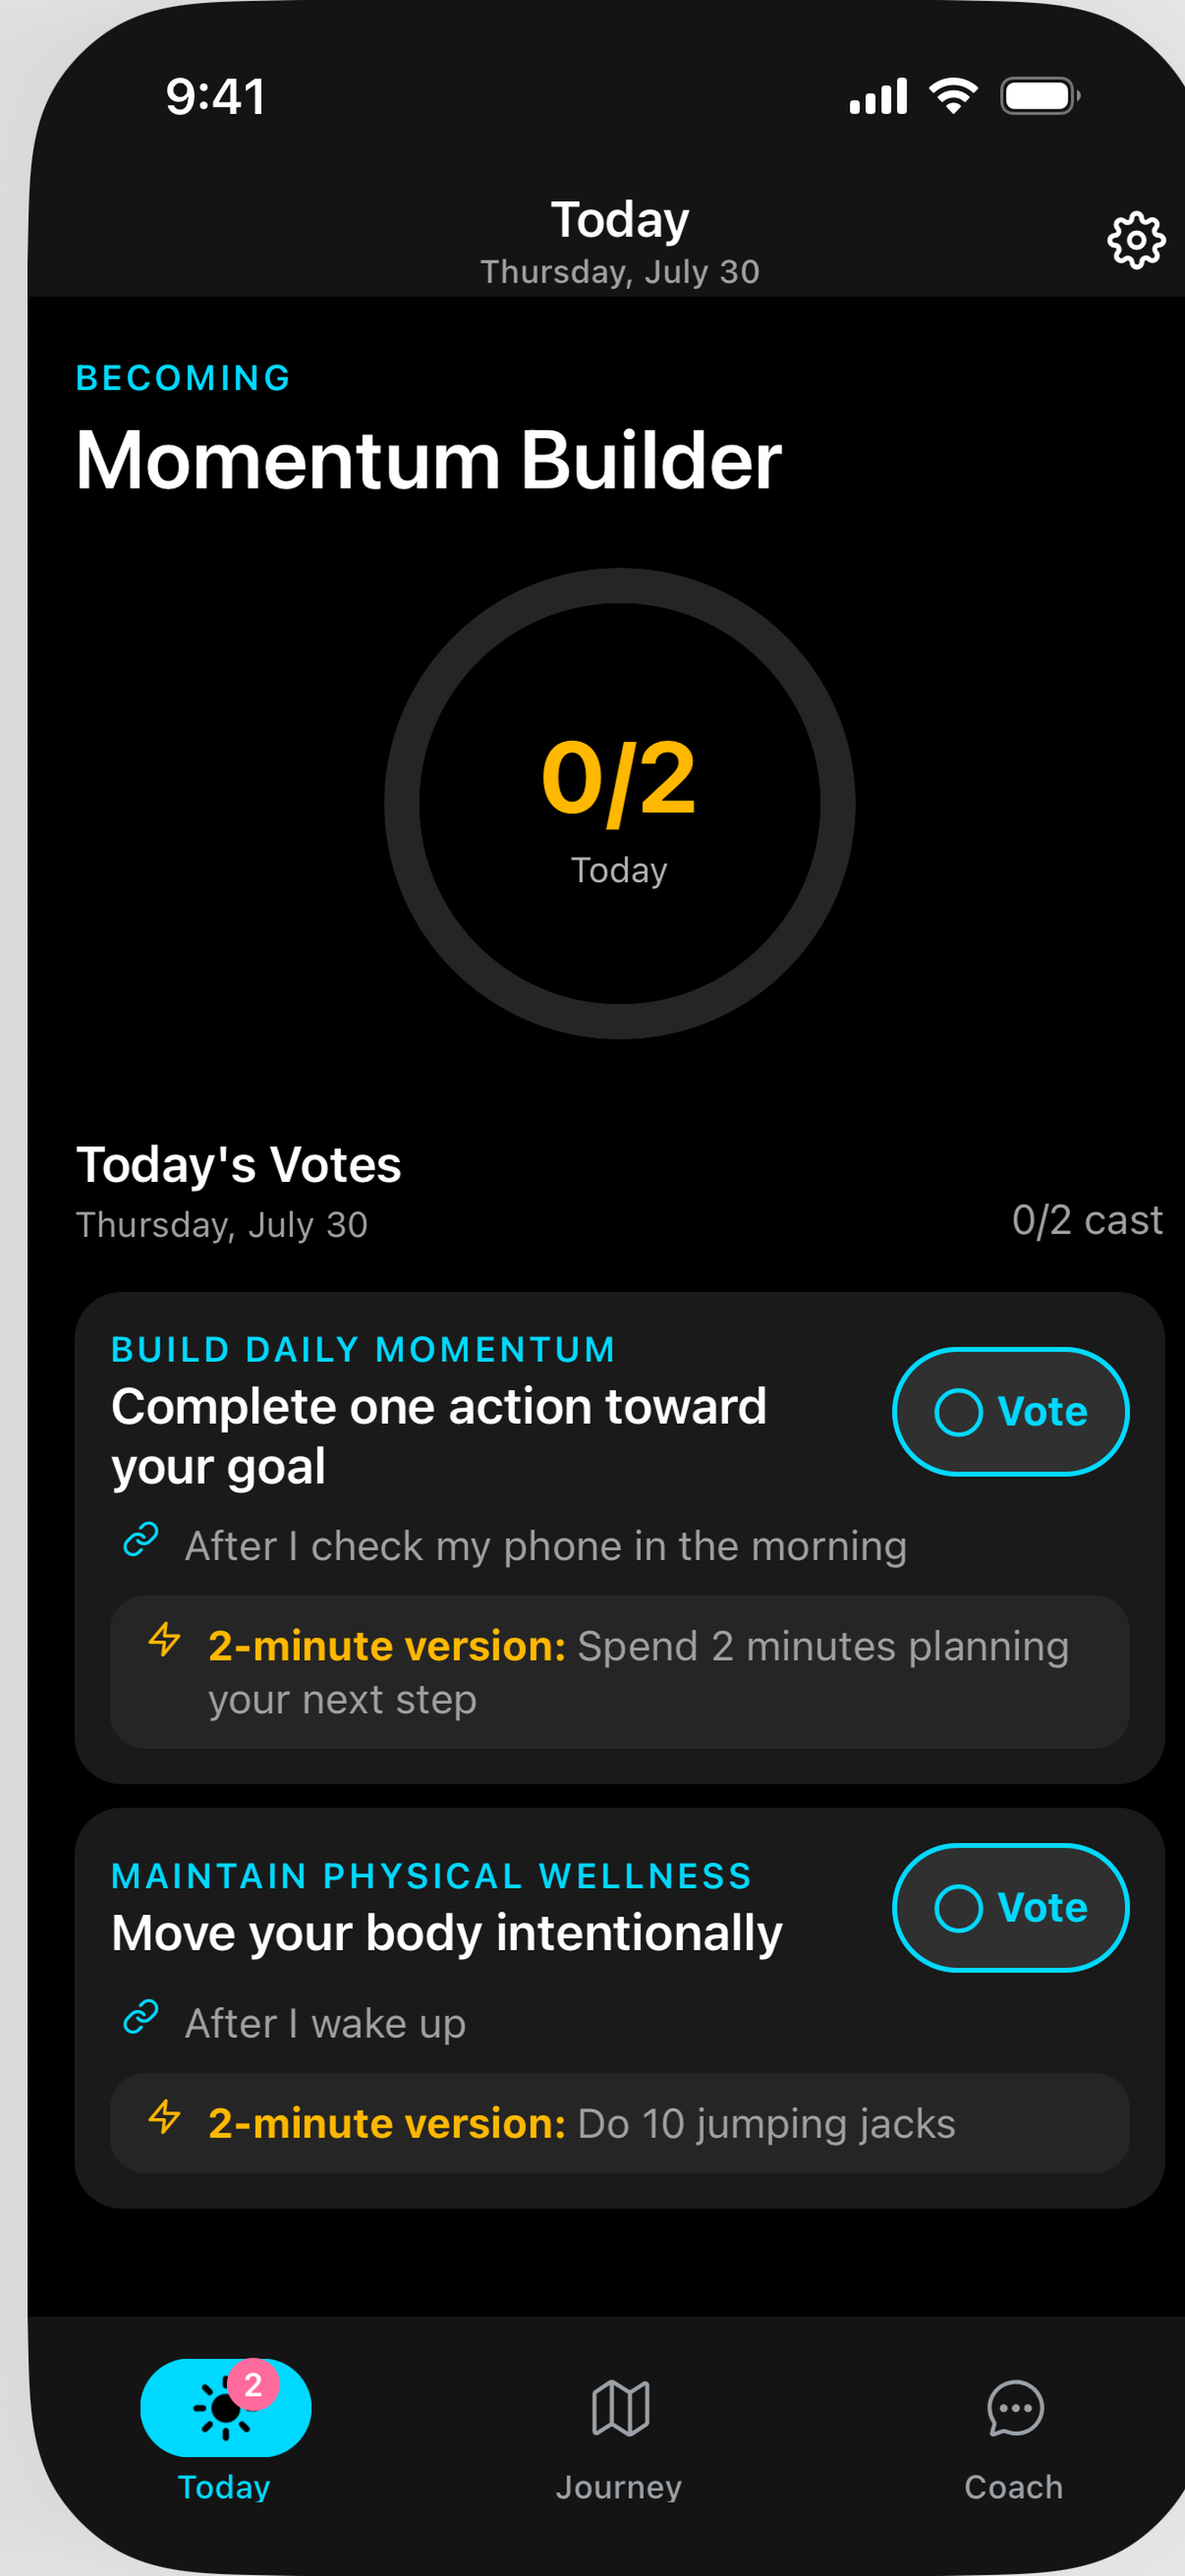
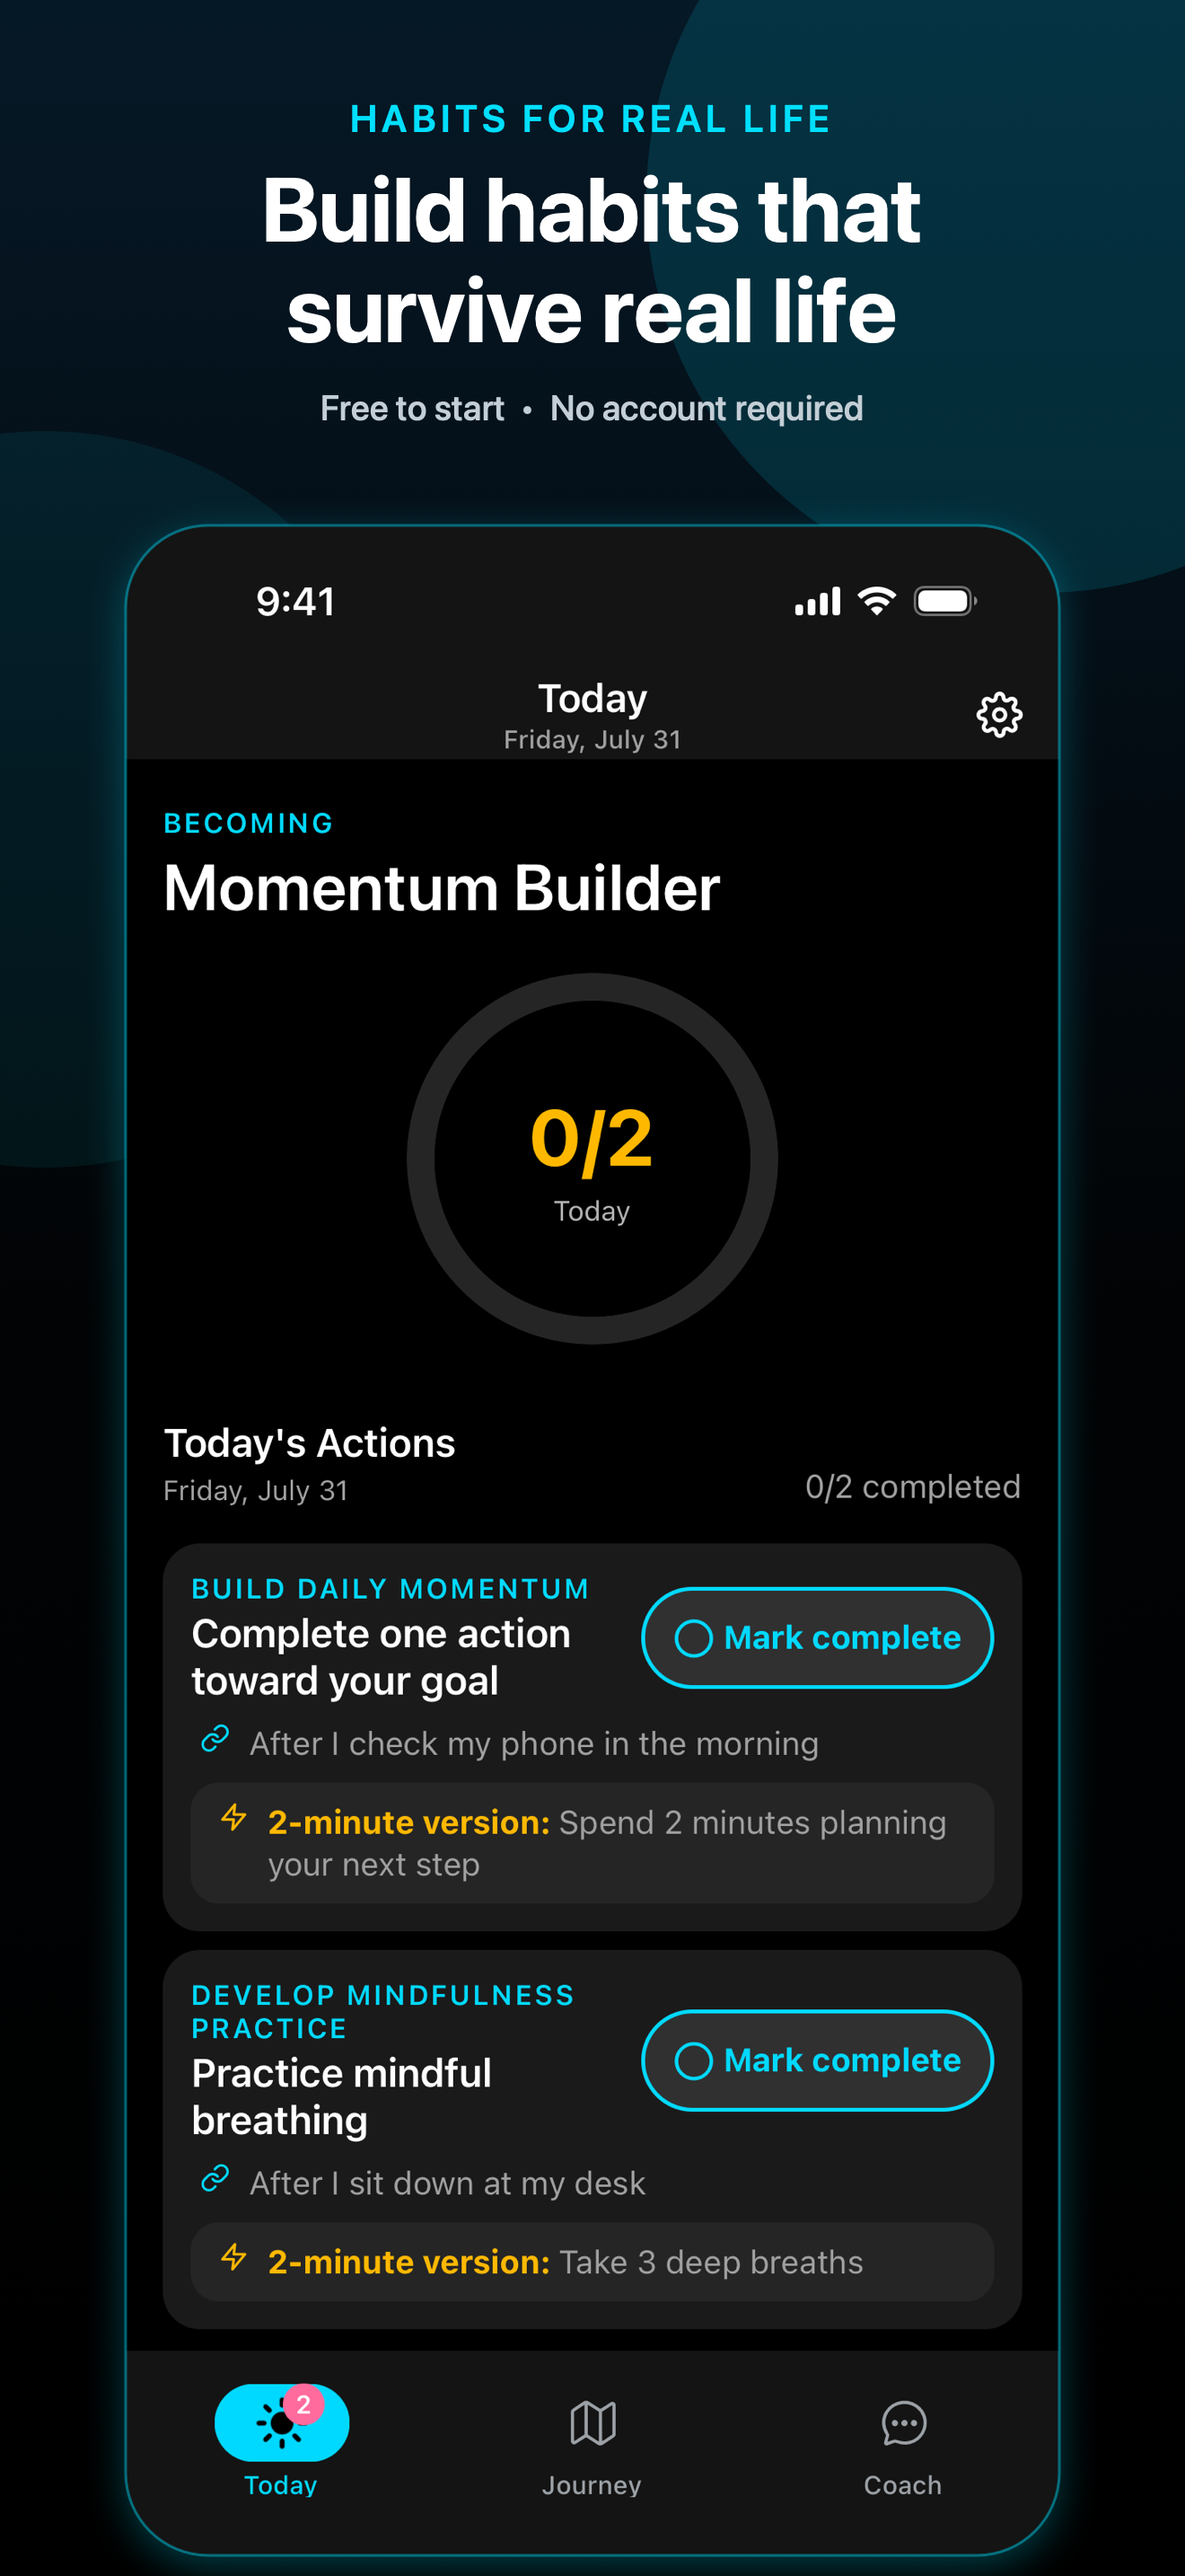
Refresh App Store conversion screenshots

diff --git a/scripts/generate-app-store-screenshots.swift b/scripts/generate-app-store-screenshots.swift
@@ -1,0 +1,226 @@
+import AppKit
+import Foundation
+
+private let canvasWidth = 1320
+private let canvasHeight = 2868
+
+private struct Shot {
+  let source: String
+  let output: String
+  let eyebrow: String
+  let headline: String
+  let detail: String
+  let accent: NSColor
+}
+
+private let shots = [
+  Shot(
+    source: "appstore-screenshots/raw-1.3.3/03-today-fresh.png",
+    output: "appstore-screenshots/01-today.png",
+    eyebrow: "HABITS FOR REAL LIFE",
+    headline: "Build habits that\nsurvive real life",
+    detail: "Free to start  •  No account required",
+    accent: NSColor(calibratedRed: 0.0, green: 0.85, blue: 1.0, alpha: 1.0)
+  ),
+  Shot(
+    source: "appstore-screenshots/raw-1.3.3/03-today-fresh.png",
+    output: "appstore-screenshots/02-two-minute.png",
+    eyebrow: "A PLAN FOR HARD DAYS",
+    headline: "Keep going with a\n2-minute version",
+    detail: "A smaller action still counts",
+    accent: NSColor(calibratedRed: 1.0, green: 0.72, blue: 0.0, alpha: 1.0)
+  ),
+  Shot(
+    source: "appstore-screenshots/raw-1.3.3/05-journey-top.png",
+    output: "appstore-screenshots/03-journey.png",
+    eyebrow: "FORGIVING PROGRESS",
+    headline: "One missed day never\nerases your progress",
+    detail: "See consistency without streak pressure",
+    accent: NSColor(calibratedRed: 0.0, green: 0.94, blue: 0.58, alpha: 1.0)
+  ),
+  Shot(
+    source: "appstore-screenshots/raw-1.3.3/04-today-actions-done.png",
+    output: "appstore-screenshots/04-evidence.png",
+    eyebrow: "SMALL ACTIONS ADD UP",
+    headline: "See the evidence that\nyou’re changing",
+    detail: "Progress you can feel, not just count",
+    accent: NSColor(calibratedRed: 0.0, green: 0.94, blue: 0.58, alpha: 1.0)
+  ),
+  Shot(
+    source: "appstore-screenshots/raw-1.3.3/08-coach-lobby.png",
+    output: "appstore-screenshots/05-coach.png",
+    eyebrow: "COACHING ON YOUR TERMS",
+    headline: "Ask an AI coach\nwhat to adjust",
+    detail: "Preview every plan change before you confirm",
+    accent: NSColor(calibratedRed: 0.0, green: 0.85, blue: 1.0, alpha: 1.0)
+  ),
+  Shot(
+    source: "appstore-screenshots/raw-1.3.3/02-ai-consent.png",
+    output: "appstore-screenshots/06-private.png",
+    eyebrow: "PRIVATE BY DESIGN",
+    headline: "Your progress stays\non your device",
+    detail: "Clear AI consent  •  No required account",
+    accent: NSColor(calibratedRed: 0.63, green: 0.40, blue: 1.0, alpha: 1.0)
+  ),
+]
+
+private func color(_ hex: UInt32, alpha: CGFloat = 1.0) -> NSColor {
+  NSColor(
+    calibratedRed: CGFloat((hex >> 16) & 0xff) / 255,
+    green: CGFloat((hex >> 8) & 0xff) / 255,
+    blue: CGFloat(hex & 0xff) / 255,
+    alpha: alpha
+  )
+}
+
+private func drawCenteredText(
+  _ text: String,
+  top: CGFloat,
+  font: NSFont,
+  color: NSColor,
+  lineHeight: CGFloat? = nil,
+  tracking: CGFloat = 0
+) {
+  let paragraph = NSMutableParagraphStyle()
+  paragraph.alignment = .center
+  if let lineHeight {
+    paragraph.minimumLineHeight = lineHeight
+    paragraph.maximumLineHeight = lineHeight
+  }
+
+  let attributes: [NSAttributedString.Key: Any] = [
+    .font: font,
+    .foregroundColor: color,
+    .paragraphStyle: paragraph,
+    .kern: tracking,
+  ]
+  let bounds = CGRect(
+    x: 70,
+    y: CGFloat(canvasHeight) - top - 360,
+    width: CGFloat(canvasWidth - 140),
+    height: 360
+  )
+  text.draw(in: bounds, withAttributes: attributes)
+}
+
+private func render(_ shot: Shot) throws {
+  guard let sourceImage = NSImage(contentsOfFile: shot.source) else {
+    throw NSError(domain: "AppStoreScreenshots", code: 1, userInfo: [
+      NSLocalizedDescriptionKey: "Could not load \(shot.source)"
+    ])
+  }
+
+  guard let bitmap = NSBitmapImageRep(
+    bitmapDataPlanes: nil,
+    pixelsWide: canvasWidth,
+    pixelsHigh: canvasHeight,
+    bitsPerSample: 8,
+    samplesPerPixel: 4,
+    hasAlpha: true,
+    isPlanar: false,
+    colorSpaceName: .deviceRGB,
+    bytesPerRow: 0,
+    bitsPerPixel: 0
+  ) else {
+    throw NSError(domain: "AppStoreScreenshots", code: 2)
+  }
+
+  NSGraphicsContext.saveGraphicsState()
+  guard let graphicsContext = NSGraphicsContext(bitmapImageRep: bitmap) else {
+    throw NSError(domain: "AppStoreScreenshots", code: 3)
+  }
+  NSGraphicsContext.current = graphicsContext
+
+  let context = graphicsContext.cgContext
+  let canvas = CGRect(x: 0, y: 0, width: canvasWidth, height: canvasHeight)
+  let background = NSGradient(colors: [color(0x08131d), color(0x020406), .black])!
+  background.draw(in: canvas, angle: -90)
+
+  context.saveGState()
+  context.setFillColor(shot.accent.withAlphaComponent(0.13).cgColor)
+  context.fillEllipse(in: CGRect(x: 720, y: 2208, width: 880, height: 880))
+  context.setFillColor(shot.accent.withAlphaComponent(0.07).cgColor)
+  context.fillEllipse(in: CGRect(x: -360, y: 1568, width: 820, height: 820))
+  context.restoreGState()
+
+  drawCenteredText(
+    shot.eyebrow,
+    top: 106,
+    font: NSFont.systemFont(ofSize: 42, weight: .semibold),
+    color: shot.accent,
+    tracking: 5
+  )
+  drawCenteredText(
+    shot.headline,
+    top: 178,
+    font: NSFont.systemFont(ofSize: 100, weight: .bold),
+    color: .white,
+    lineHeight: 112
+  )
+  drawCenteredText(
+    shot.detail,
+    top: 430,
+    font: NSFont.systemFont(ofSize: 39, weight: .medium),
+    color: color(0xb7c3cc)
+  )
+
+  let phoneRect = CGRect(x: 140, y: 23, width: 1040, height: 2260)
+  let shadow = NSShadow()
+  shadow.shadowColor = shot.accent.withAlphaComponent(0.28)
+  shadow.shadowBlurRadius = 45
+  shadow.shadowOffset = NSSize(width: 0, height: -12)
+  shadow.set()
+
+  let phonePath = NSBezierPath(roundedRect: phoneRect, xRadius: 92, yRadius: 92)
+  color(0x111820).setFill()
+  phonePath.fill()
+
+  NSGraphicsContext.saveGraphicsState()
+  phonePath.addClip()
+  sourceImage.draw(
+    in: phoneRect,
+    from: CGRect(origin: .zero, size: sourceImage.size),
+    operation: .copy,
+    fraction: 1.0,
+    respectFlipped: false,
+    hints: [.interpolation: NSImageInterpolation.high]
+  )
+  NSGraphicsContext.restoreGraphicsState()
+
+  NSGraphicsContext.saveGraphicsState()
+  NSShadow().set()
+  shot.accent.withAlphaComponent(0.42).setStroke()
+  phonePath.lineWidth = 3
+  phonePath.stroke()
+  NSGraphicsContext.restoreGraphicsState()
+
+  graphicsContext.flushGraphics()
+  NSGraphicsContext.restoreGraphicsState()
+
+  guard let data = bitmap.representation(using: .png, properties: [:]) else {
+    throw NSError(domain: "AppStoreScreenshots", code: 4)
+  }
+  try data.write(to: URL(fileURLWithPath: shot.output))
+
+  let flattenedOutput = shot.output + ".rgb.png"
+  let flatten = Process()
+  flatten.executableURL = URL(fileURLWithPath: "/opt/homebrew/bin/ffmpeg")
+  flatten.arguments = [
+    "-loglevel", "error", "-y", "-i", shot.output,
+    "-frames:v", "1", "-pix_fmt", "rgb24", flattenedOutput,
+  ]
+  try flatten.run()
+  flatten.waitUntilExit()
+  guard flatten.terminationStatus == 0 else {
+    throw NSError(domain: "AppStoreScreenshots", code: 5, userInfo: [
+      NSLocalizedDescriptionKey: "Could not flatten alpha in \(shot.output)"
+    ])
+  }
+  try FileManager.default.removeItem(atPath: shot.output)
+  try FileManager.default.moveItem(atPath: flattenedOutput, toPath: shot.output)
+  print("Rendered \(shot.output)")
+}
+
+for shot in shots {
+  try render(shot)
+}

diff --git a/docs/app-store-aso-2026-07-30.md b/docs/app-store-aso-2026-07-30.md
@@ -56,3 +56,24 @@ coaching disclosures.
 The promotional-text change can appear without a new binary. The subtitle,
 keyword field, and description affect App Store search and the public product
 page only after version 1.3.2 is approved and released.
+
+## Version 1.3.3 conversion refresh
+
+The widget hotfix keeps the same search metadata. The subtitle remains
+`Habit Tracker & Goal Planner` because it states the two highest-intent search
+categories without repeating words from the app name. The keyword field and
+promotional text also remain unchanged.
+
+The six 6.9-inch screenshots are rebuilt around the reasons to choose
+Resolution Companion over a conventional streak tracker:
+
+1. Build habits that survive real life.
+2. Keep going with a 2-minute version.
+3. One missed day never erases your progress.
+4. See the evidence that you're changing.
+5. Ask an AI coach what to adjust.
+6. Your progress stays on your device.
+
+The first three screenshots form a complete conversion story when the App
+Store search result shows only the initial gallery frames. All six use current
+Version 1.3.3 simulator captures and the app's direct completion language.

diff --git a/docs/website-app-store-refresh-2026-07-30.md b/docs/website-app-store-refresh-2026-07-30.md
@@ -27,13 +27,14 @@ Website images:
 App Store 6.9-inch images, all 1320 by 2868:
 
 - `appstore-screenshots/01-today.png`
-- `appstore-screenshots/02-journey.png`
-- `appstore-screenshots/03-milestones.png`
-- `appstore-screenshots/04-coach.png`
-- `appstore-screenshots/05-welcome.png`
-- `appstore-screenshots/06-day-complete.png`
+- `appstore-screenshots/02-two-minute.png`
+- `appstore-screenshots/03-journey.png`
+- `appstore-screenshots/04-evidence.png`
+- `appstore-screenshots/05-coach.png`
+- `appstore-screenshots/06-private.png`
 
-Do not upload the older `appstore-screenshots/06-chat.png`.
+The older numbered screenshots and `appstore-screenshots/06-chat.png` are
+retained as source history, not as part of the Version 1.3.3 upload set.
 
 ## Website release path
 

diff --git a/docs/widget-hotfix-1-3-3.md b/docs/widget-hotfix-1-3-3.md
@@ -39,6 +39,10 @@ intent while registering and rendering the extension.
 - The signed production archive contains host and widget version 1.3.3, build
   78, with the same App Group entitlement, and was uploaded successfully to
   App Store Connect on July 31, 2026.
+- Six conversion-focused 6.9-inch App Store screenshots were generated from
+  the final Version 1.3.3 simulator build and checked at 1320 by 2868 pixels.
+- The App Store subtitle, keywords, and promotional text retain the approved
+  habit-tracker and goal-planner search positioning.
 
 Visual Home Screen verification and a physical-device smoke test remain release
 gates until they can be completed on an unlocked device.
